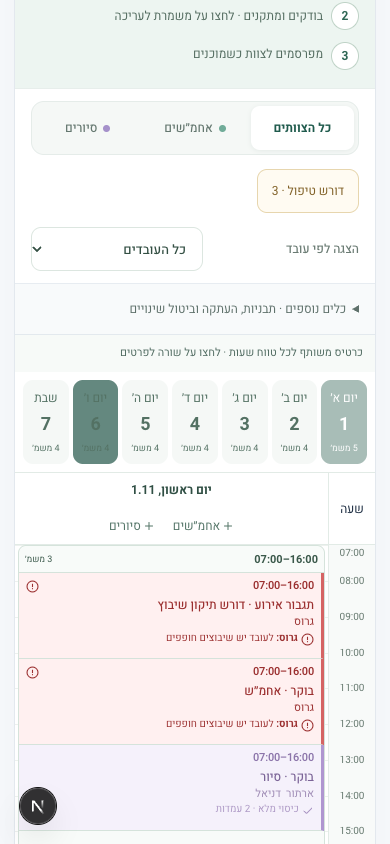
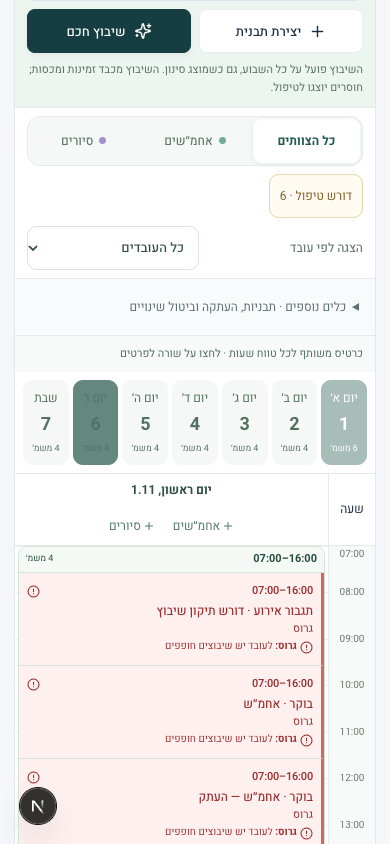
style: fill timeline cards and use a single page scroll

diff --git a/src/components/schedule-timeline.css b/src/components/schedule-timeline.css
@@ -2,7 +2,7 @@
 .timeline-toolbar { display:flex; align-items:center; justify-content:space-between; gap:12px; padding:12px 18px; background:#f7faf8; color:#526d63; font-size:12px; }
 .timeline-view-toggle { border:1px solid #ccddd4; border-radius:8px; padding:8px 12px; background:white; color:#245e4d; }
 .timeline-days { display:none; }
-.timeline-scroll { overflow:auto; max-height: min(850px, 80vh); padding-bottom:16px; }
+.timeline-scroll { overflow:visible; padding-bottom:16px; }
 .timeline-grid { display:grid; grid-template-columns:52px repeat(7,minmax(0,1fr)); }
 .timeline-heading { height:80px; position:sticky; top:0; z-index:4; background:#fff; border-bottom:1px solid var(--timeline-border); display:flex; flex-direction:column; align-items:center; justify-content:center; gap:8px; font-size:12px; text-align:center; }
 .timeline-heading > button { background:transparent; border:0; color:#304f44; font-weight:700; padding:4px; }
@@ -18,17 +18,19 @@
 .timeline-axis-body small { font-size:9px; margin-left:2px; color:#916830; }
 .timeline-hour-line { position:absolute; inset-inline:0; border-top:1px solid #edf1ee; }
 /* One full-width card per time band, with distinct full-width shift rows. */
-.timeline-shared-card { position:absolute; inset-inline:3px; padding:1px 0; overflow:hidden; border:1px solid #d5e3db; border-radius:8px; background:#f8fbf9; }
-.timeline-band-heading { display:flex; align-items:center; justify-content:space-between; gap:3px; height:26px; padding:3px 6px; font-size:11px; font-weight:700; color:#3b594b; border-bottom:1px solid #d5e3db; }
+.timeline-shared-card { position:absolute; inset-inline:3px; display:flex; flex-direction:column; padding:0; overflow:hidden; border:1px solid #d5e3db; border-radius:10px; background:#f8fbf9; box-shadow:0 1px 3px #244d3810; }
+.timeline-band-heading { display:flex; align-items:center; justify-content:space-between; gap:4px; height:26px; flex:0 0 26px; padding:3px 7px; font-size:11px; font-weight:700; color:#294e3d; background:#f5f9f6; border-bottom:1px solid #d5e3db; }
+.timeline-band-heading > span { white-space:nowrap; font-variant-numeric:tabular-nums; }
 .timeline-band-heading small { font-size:9px; font-weight:400; white-space:nowrap; }
-.timeline-shared-rows { display:flex; flex-direction:column; }
-.timeline-shared-row { height:86px; min-width:0; }
-.timeline-shared-row .shift-card { display:flex; flex-direction:column; gap:2px; height:100%; min-height:0; margin:0; padding:5px 7px; border:0; border-inline-start:3px solid #7bb69b; border-bottom:1px solid #d5e3db; border-radius:0; overflow:hidden; }
+.timeline-shared-rows { display:flex; flex-direction:column; flex:1; min-height:0; }
+.timeline-shared-row { flex:1 1 0; min-height:0; min-width:0; container-type:size; }
+.timeline-shared-row .shift-card { display:flex; flex-direction:column; justify-content:center; gap:3px; height:100%; min-height:0; margin:0; padding:6px 8px; border:0; border-inline-start:3px solid #7bb69b; border-bottom:1px solid #d5e3db; border-radius:0; overflow:hidden; }
+.timeline-shared-row:last-child .shift-card { border-bottom:0; }
 .timeline-shared-row .shift-card.patrol { border-inline-start-color:#af96d0; }
 .timeline-shared-row .shift-card.has-error { border-inline-start-color:#d56464; }
 .timeline-shared-row .shift-card.has-warning, .timeline-shared-row .shift-card.short-staffed { border-inline-start-color:#d6a242; }
 .timeline-shared-row .shift-card-top { display:flex; flex-shrink:0; gap:2px; }
-.timeline-shared-row .shift-time { font-size:11px; }
+.timeline-shared-row .shift-time { font-size:11px; font-variant-numeric:tabular-nums; }
 .timeline-shared-row .shift-title { font-size:12px; line-height:16px; margin:0; white-space:nowrap; overflow:hidden; text-overflow:ellipsis; flex-shrink:0; }
 .timeline-shared-row .shift-people { margin:0; display:flex; flex-direction:row; flex-wrap:wrap; gap:0 5px; max-height:28px; overflow:hidden; }
 .timeline-shared-row .shift-people > span { font-size:11px; line-height:14px; display:block; }
@@ -69,3 +71,13 @@
 
 .timeline-shared-card.continued { border-start-start-radius:0; border-start-end-radius:0; }
 .timeline-shared-card.continues { border-end-start-radius:0; border-end-end-radius:0; }
+
+/* Use additional row space for readable content, not an empty card footer. */
+@container (min-height: 110px) {
+  .timeline-shared-row .shift-card { gap:7px; padding:10px; }
+  .timeline-shared-row .shift-title { white-space:normal; display:-webkit-box; -webkit-box-orient:vertical; -webkit-line-clamp:2; font-size:13px; line-height:18px; }
+  .timeline-shared-row .shift-people { max-height:36px; gap:2px 6px; }
+  .timeline-shared-row .shift-people > span { font-size:12px; line-height:16px; }
+  .timeline-shared-row .shift-issue-summary > span { white-space:normal; display:-webkit-box; -webkit-box-orient:vertical; -webkit-line-clamp:2; }
+  .timeline-shared-row .shift-covered, .timeline-shared-row .shift-warning, .timeline-shared-row .shift-issues { font-size:11px; line-height:15px; }
+}

diff --git a/README.md b/README.md
@@ -77,6 +77,8 @@ npm run dev
 
 הלוח משתמש בגלילת העמוד בלבד, ללא גלילה פנימית נפרדת. השורות בכרטיס המשותף מתחלקות בכל הגובה הזמין, ללא אזור ריק בתחתית. בכרטיסים גבוהים מוצגים כותרות והתראות בשתי שורות, עם ריווח מוגדל ושמות קריאים.
 
+הלוח משתמש בגלילת העמוד בלבד, ללא גלילה פנימית נפרדת. השורות בכרטיס המשותף מתחלקות בכל הגובה הזמין, ללא אזור ריק בתחתית. בכרטיסים גבוהים מוצגים כותרות והתראות בשתי שורות, עם ריווח מוגדל ושמות קריאים.
+
 ![לוח שעות שבועי במחשב](docs/screenshots/timeline-desktop.png)
 
 <img src="docs/screenshots/timeline-mobile.png" alt="בחירת יום וציר שעות בטלפון" width="320" />
